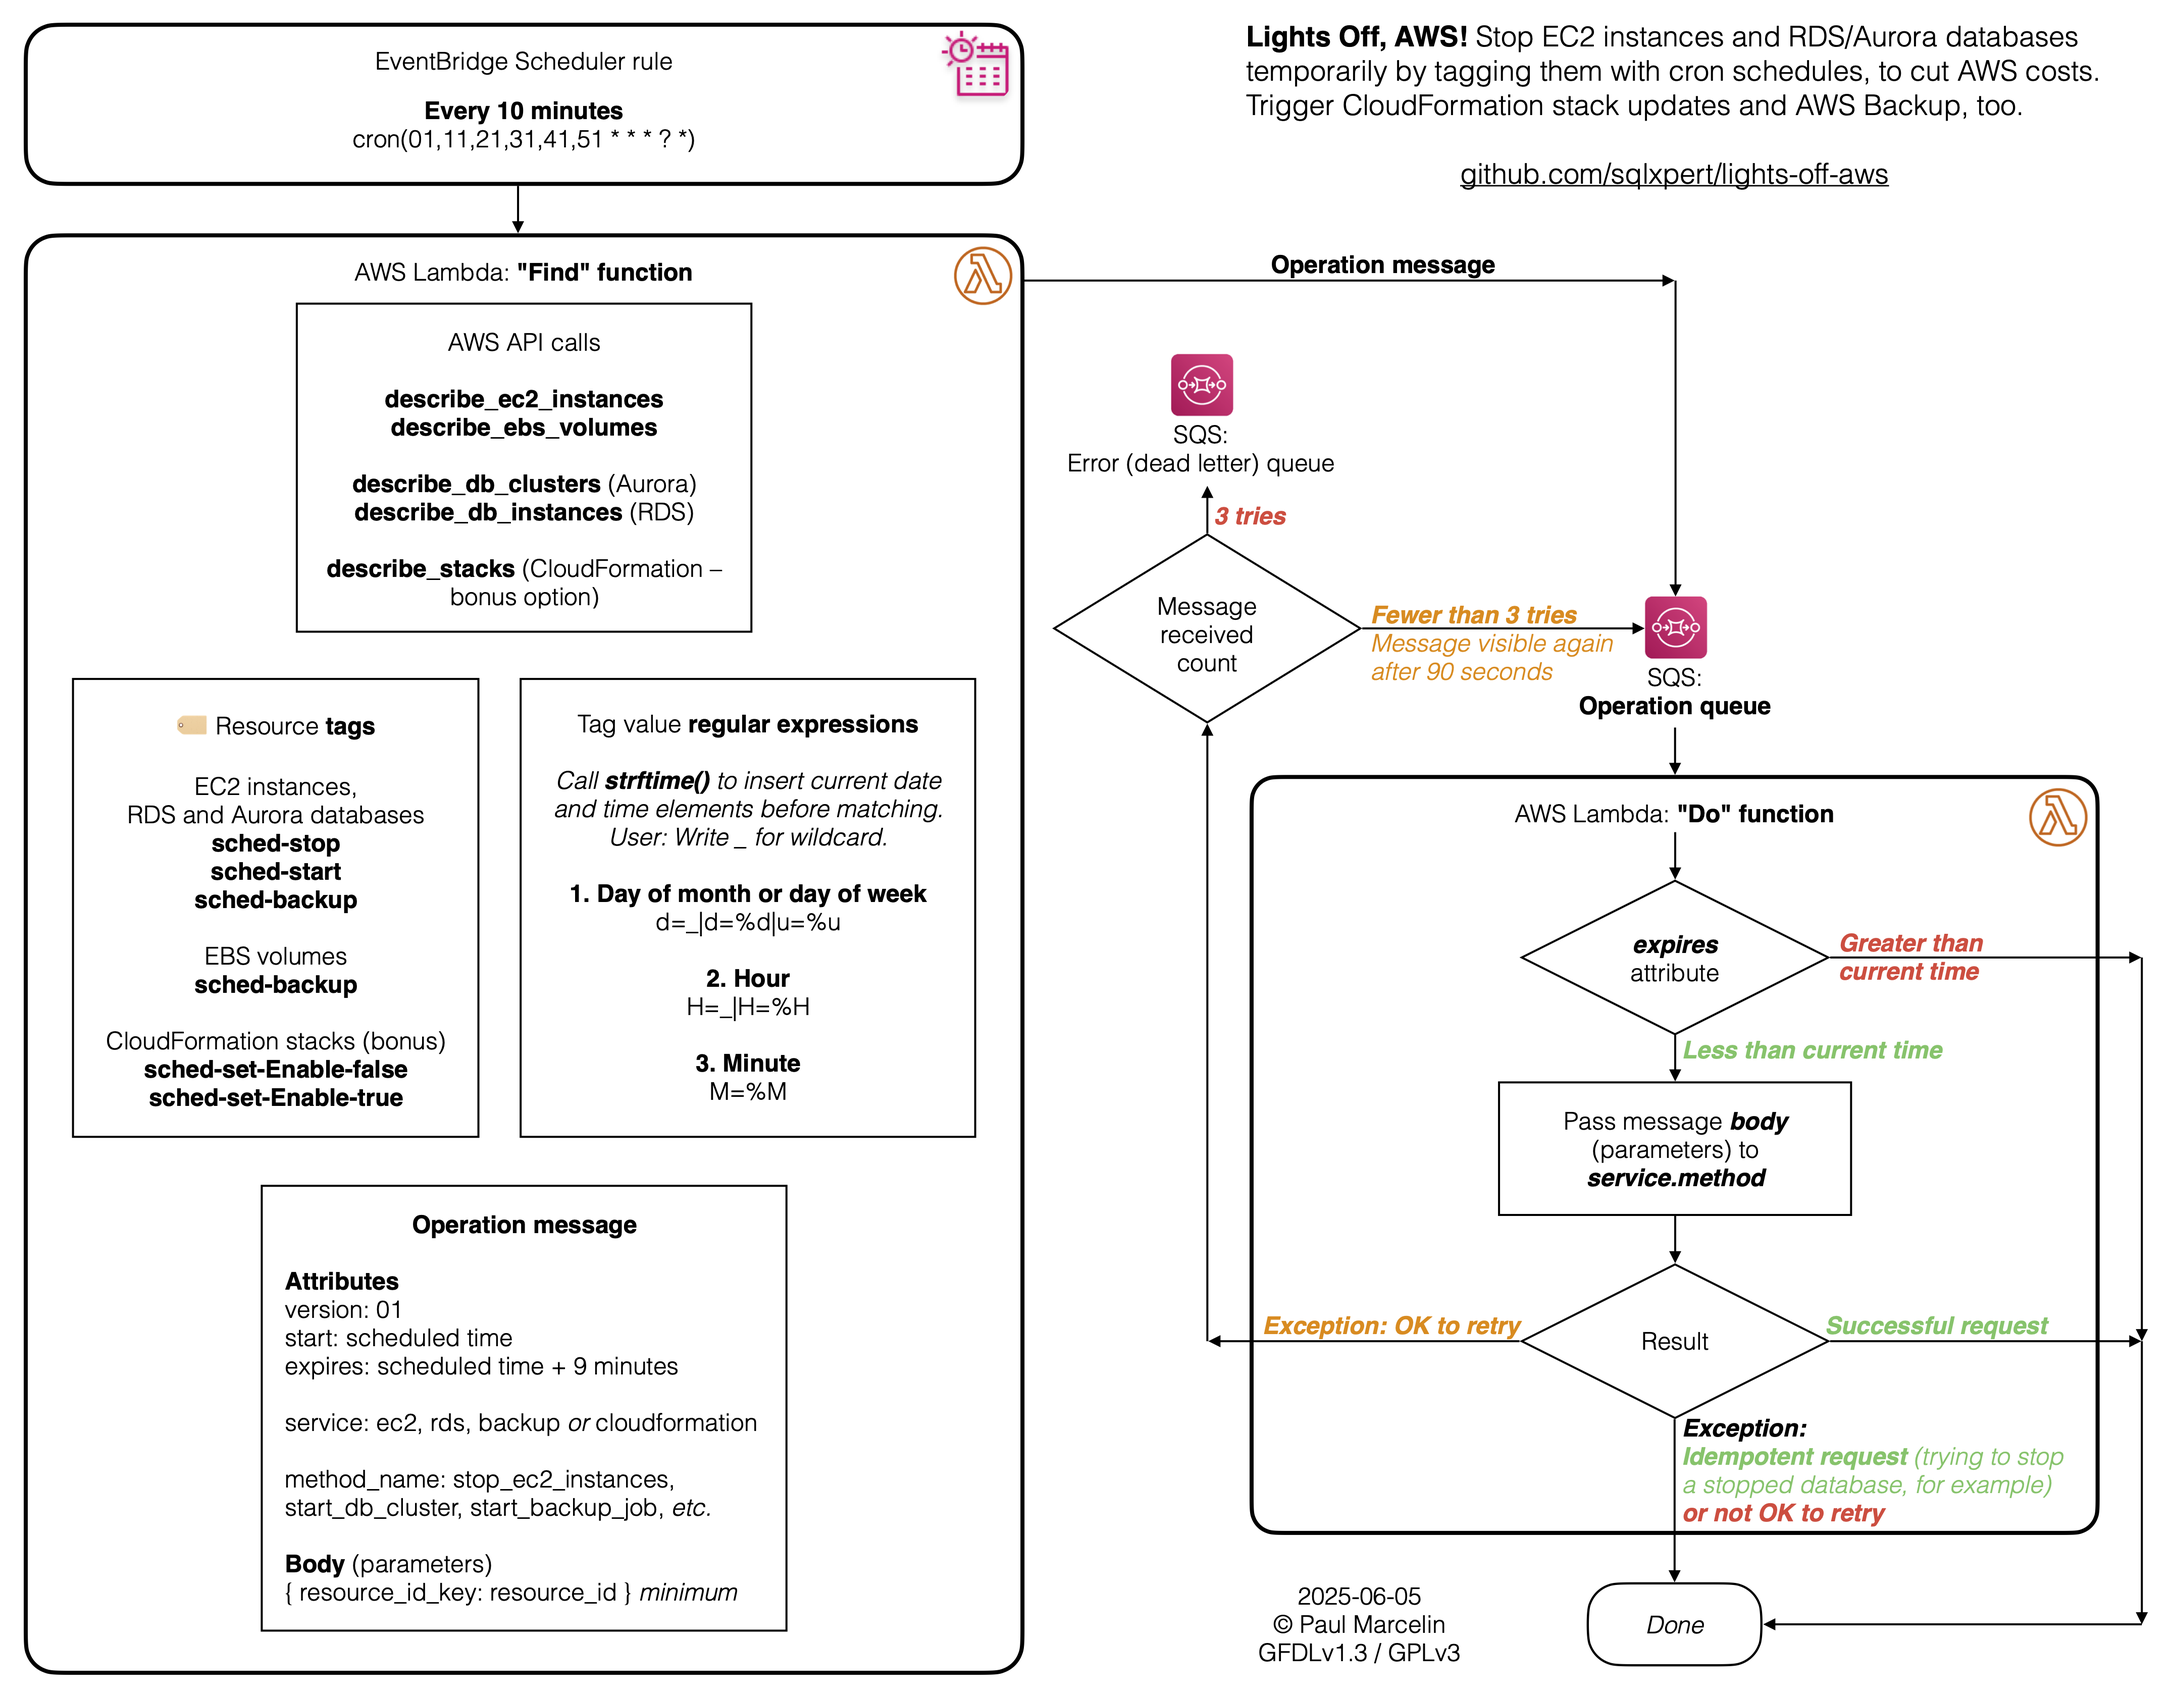
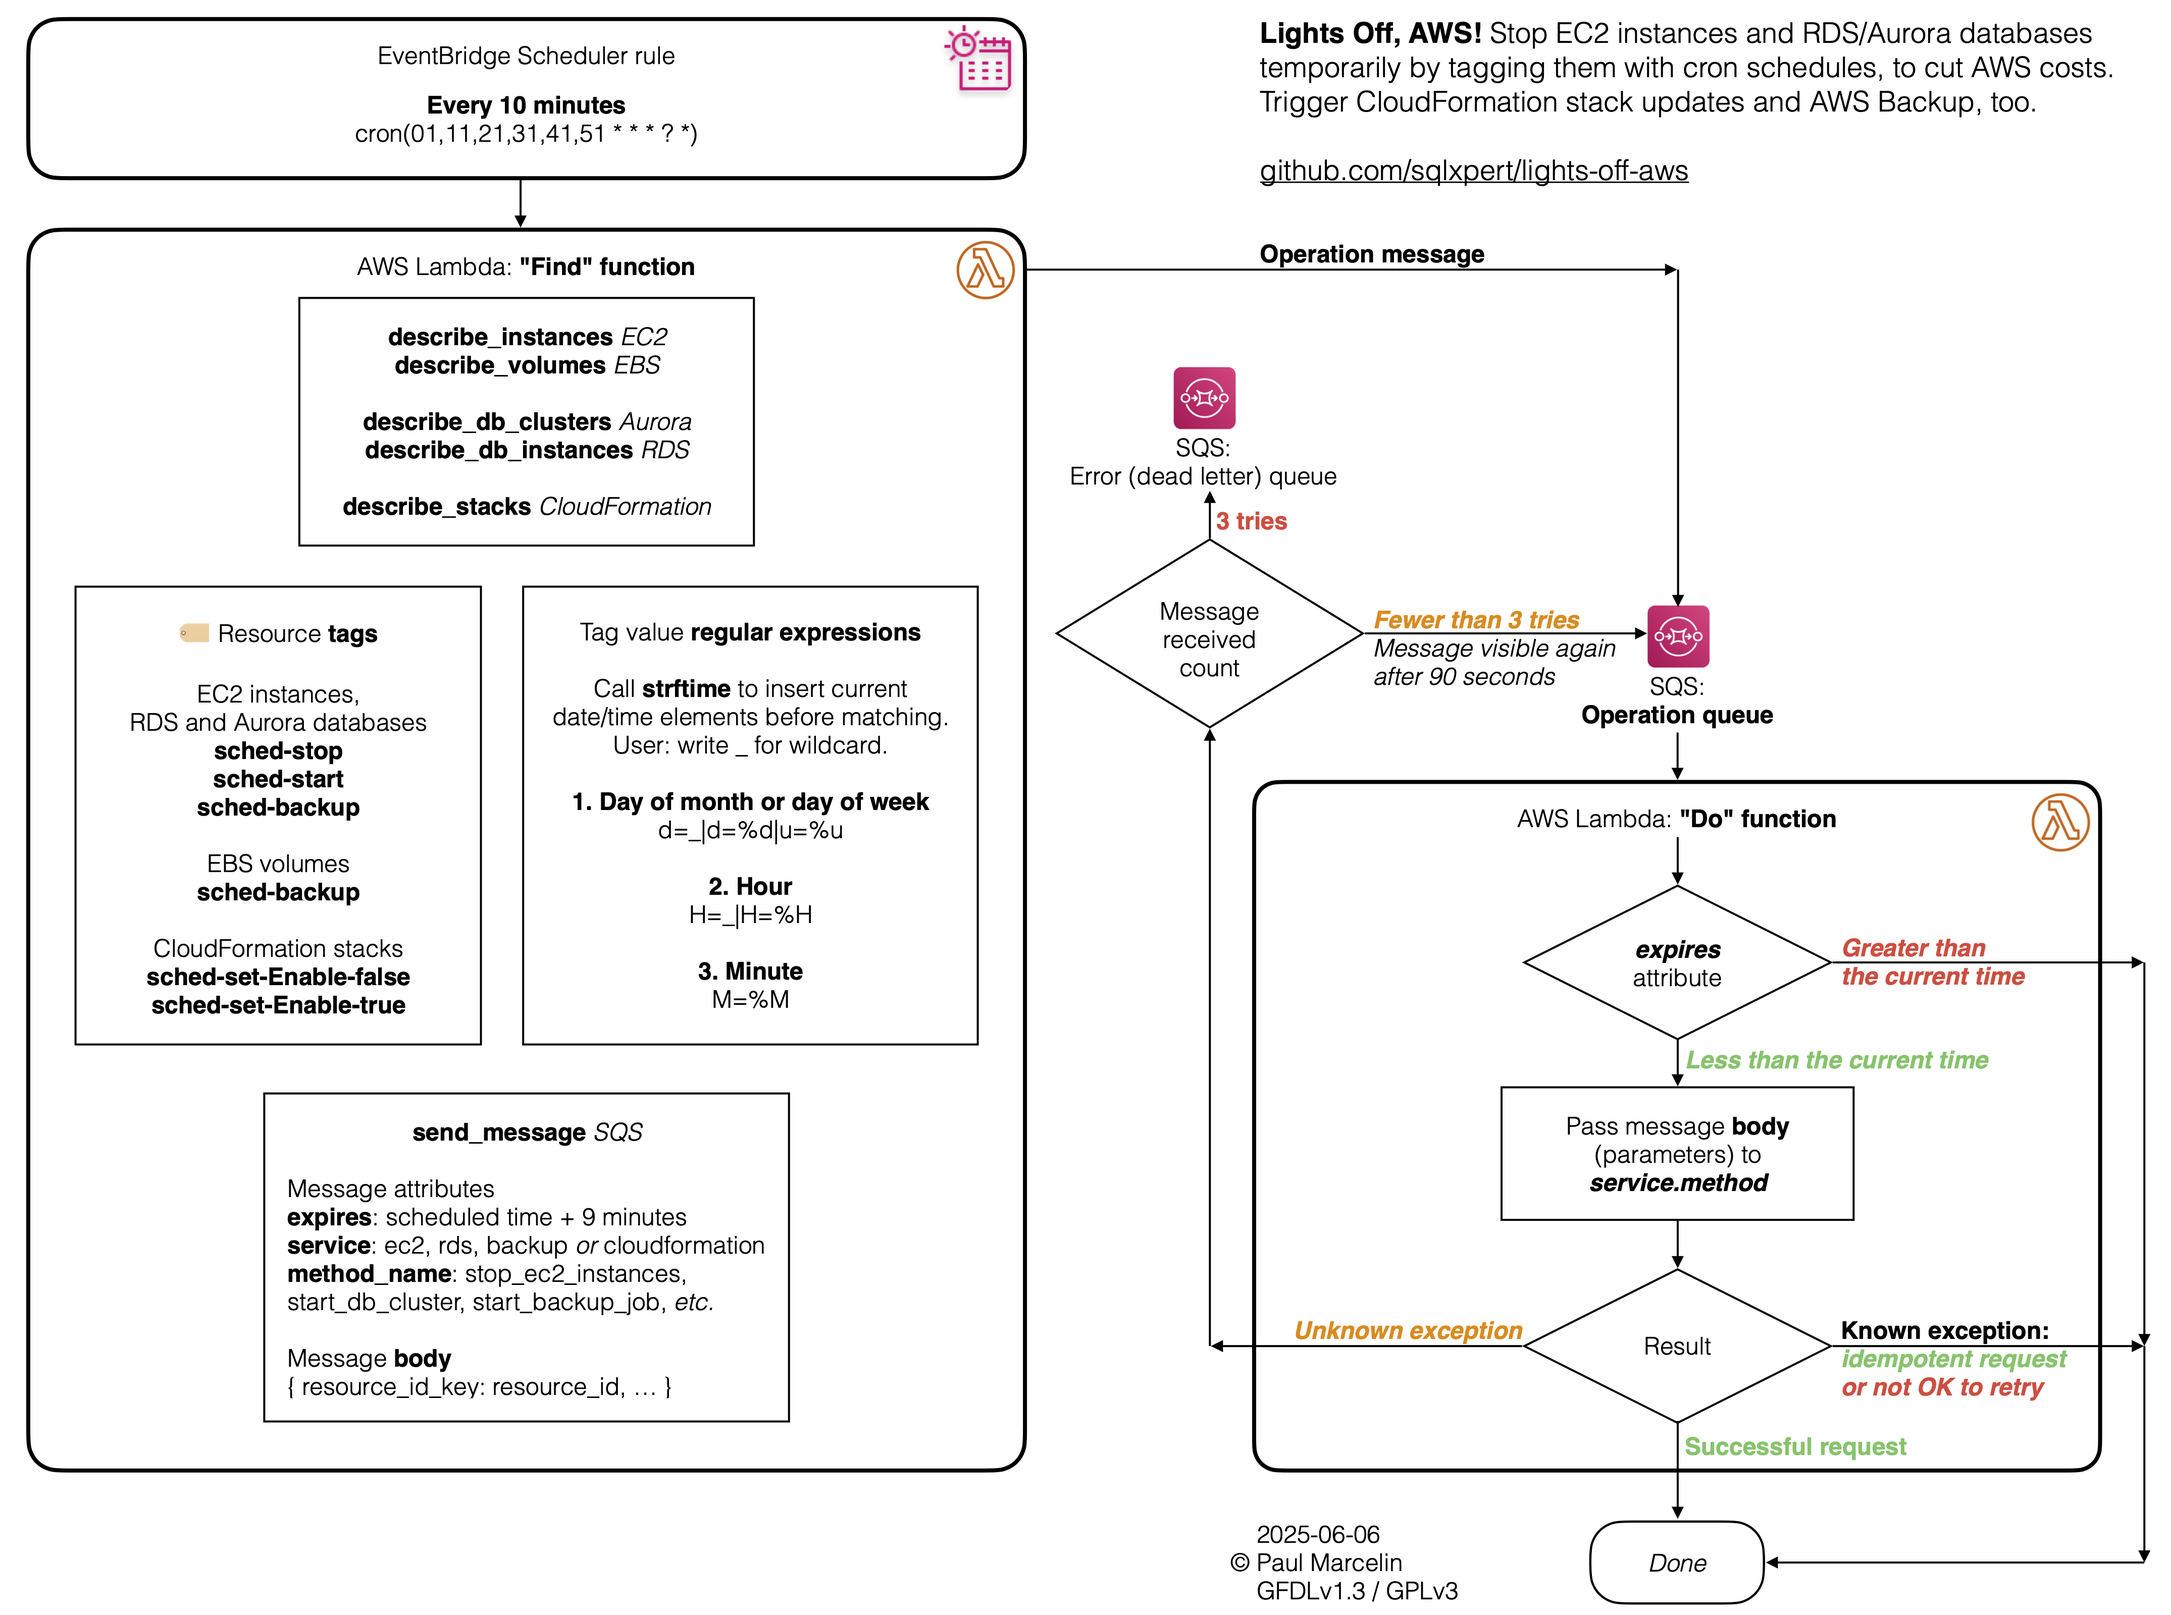
readme: non-essential info. removed from architecture diagram

diff --git a/README.md b/README.md
@@ -15,7 +15,7 @@ Ever forget to turn the lights off? Now you can:
 
 Click to view the architecture diagram:
 
-[<img src="media/lights-off-aws-architecture-and-flow-thumb.png" alt="An Event Bridge Scheduler rule triggers the 'Find' Amazon Web Services Lambda function every 10 minutes. The function calls AWS application programming interface methods to describe resources, checks the resources for tag keys such as 'sched-start', then uses regular expressions to check the tag values for day of month or day of week, hour, and minute terms. If there is a match, the function sends a message to a Simple Queue Service queue. The 'Do' function, triggered in response, checks whether the message has expired. If not, this function calls the AWS API method indicated by the message attributes, passing the message body for the parameters. If the request is successful or an exception occurs and it is not okay to re-try, the function is done. If an exception occurs and it is okay to re-try, the message remains in the operation queue, becoming visibile again after 90 seconds. After 3 tries, a message goes from the operation queue to the error (dead letter) queue." width="144" />](media/lights-off-aws-architecture-and-flow.png?raw=true "Architecture diagram and flowchart for Lights Off, AWS!")
+[<img src="media/lights-off-aws-architecture-and-flow-thumb.png" alt="An Event Bridge Scheduler rule triggers the 'Find' Amazon Web Services Lambda function every 10 minutes. The function calls 'describe' methods, checks the resource records returned for tag keys such as 'sched-start', and uses regular expressions to check the tag values for day, hour, and minute terms. Current day and time elements are inserted into the regular expressions using 'strftime'. If there is a match, the function sends a message to a Simple Queue Service queue. The 'Do' function, triggered in response, checks whether the message has expired. If not, this function calls the method indicated by the message attributes, passing the message body for the parameters. If the request is successful or a known exception occurs and it is not okay to re-try, the function is done. If an unknown exception occurs, the message remains in the operation queue, becoming visibile again after 90 seconds. After 3 tries, a message goes from the operation queue to the error (dead letter) queue." height="144" />](media/lights-off-aws-architecture-and-flow.png?raw=true "Architecture diagram and flowchart for Lights Off, AWS!")
 
 > Most of all, this tool is lightweight. Not counting blanks, comments, or
 tests, AWS's
